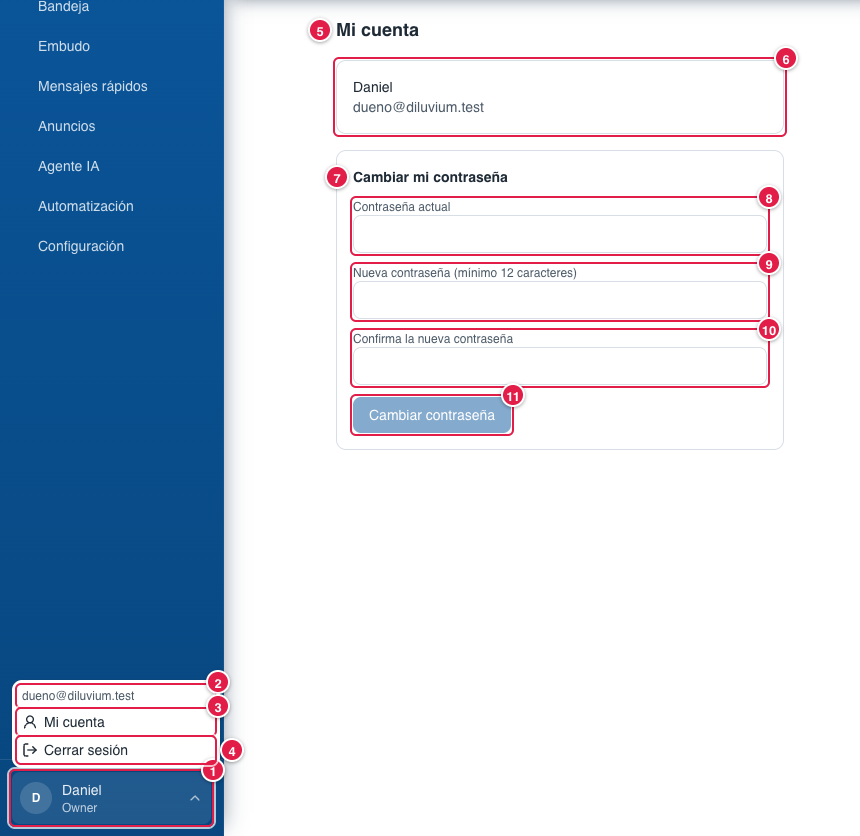
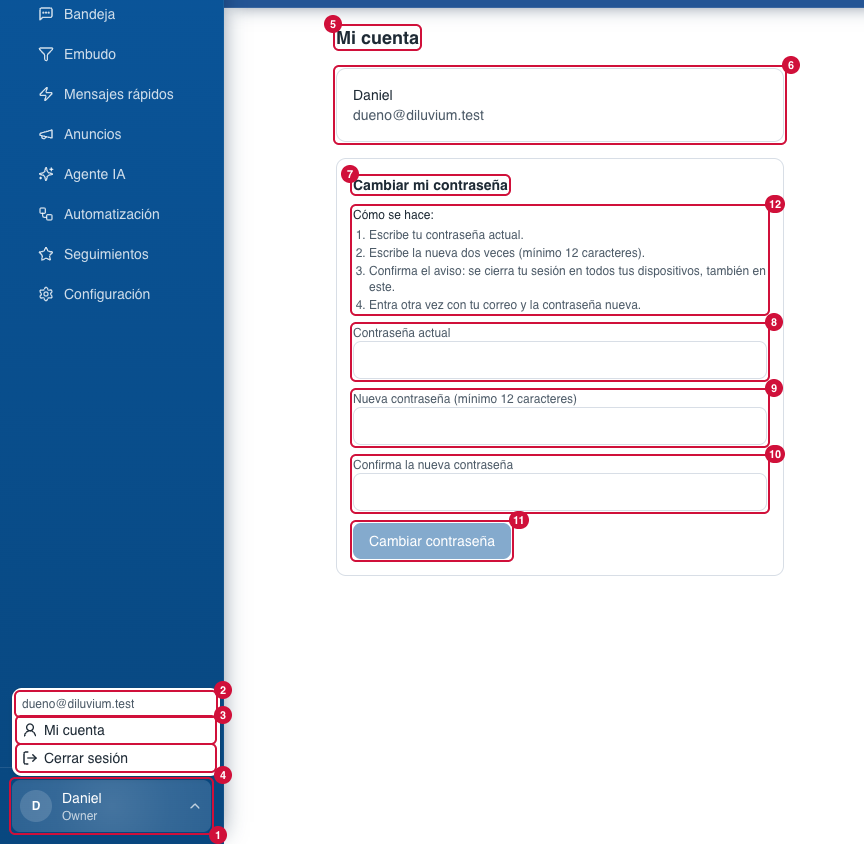
feat(mi-cuenta): aviso y guía al cambiar la contraseña; se cierran todas las sesiones
- Mi cuenta › Cambiar mi contraseña: guía de 4 pasos y, antes de cambiarla, el aviso
  «¿Cambiar tu contraseña?» (no se deshace; se cierra la sesión aquí y en todos los
  dispositivos). Si la actual está mal, no cambia nada y sigue dentro.
- Al cambiarla se cierran TODAS las sesiones del usuario (también la de esa pestaña) y va a
  Iniciar sesión con el aviso «Tu contraseña cambió… Entra con tu correo y la contraseña
  nueva.» Antes, revokeOtherSessions abría una sesión nueva que la página no alcanzaba a usar
  y lo sacaba sin decir por qué.
- Mapa: 3.9 con 12 (guía), 13 (aviso) y 14 (aviso de Iniciar sesión); captura 12-mi-cuenta
  rehecha y 12-mi-cuenta-aviso / 12-mi-cuenta-entrar nuevas.
- Sin migración.

diff --git a/app/(app)/mi-cuenta/_components/my-account-form.tsx b/app/(app)/mi-cuenta/_components/my-account-form.tsx
@@ -1,8 +1,12 @@
 "use client";
 
-// "Mi cuenta": cualquier usuario cambia SU contraseña (pide la actual). Al
-// cambiarla se cierran sus otras sesiones.
+// "Mi cuenta": cualquier usuario cambia SU contraseña (pide la actual). Guía de 4 pasos y,
+// antes de cambiarla, un aviso: no se deshace y se cierra su sesión en TODOS sus dispositivos,
+// también en este (decisión del dueño, 27-oct-2026). Si sale bien, la acción lleva a «Iniciar
+// sesión» con el aviso de entrar con la nueva; aquí solo regresa si falló.
 import { useState } from "react";
+import { unstable_rethrow } from "next/navigation";
+import { TopConfirm } from "@/components/ui/top-confirm";
 import { changeMyPassword } from "@/lib/actions/team";
 
 const inputClass =
@@ -12,31 +16,31 @@ export function MyAccountForm({ name, email }: { name: string; email: string }) 
   const [current, setCurrent] = useState("");
   const [next, setNext] = useState("");
   const [confirm, setConfirm] = useState("");
-  const [message, setMessage] = useState<{ ok: boolean; text: string } | null>(null);
+  const [error, setError] = useState<string | null>(null);
+  const [asking, setAsking] = useState(false);
   const [saving, setSaving] = useState(false);
 
   const mismatch = confirm.length > 0 && next !== confirm;
 
-  async function submit(event: React.FormEvent) {
+  function submit(event: React.FormEvent) {
     event.preventDefault();
-    if (mismatch) return;
+    if (next !== confirm) return;
+    setError(null);
+    setAsking(true);
+  }
+
+  async function changePassword() {
     setSaving(true);
-    setMessage(null);
     try {
       const result = await changeMyPassword({ currentPassword: current, newPassword: next });
-      if (result.ok) {
-        setCurrent("");
-        setNext("");
-        setConfirm("");
-        setMessage({ ok: true, text: "Contraseña actualizada. Se cerraron tus sesiones en otros dispositivos." });
-      } else {
-        setMessage({ ok: false, text: result.message });
-      }
-    } catch {
-      setMessage({ ok: false, text: "No se pudo cambiar la contraseña." });
-    } finally {
-      setSaving(false);
+      if (!result.ok) setError(result.message);
+    } catch (caught) {
+      // La redirección a «Iniciar sesión» llega como error de Next: se deja pasar.
+      unstable_rethrow(caught);
+      setError("No se pudo cambiar la contraseña.");
     }
+    setSaving(false);
+    setAsking(false);
   }
 
   return (
@@ -47,6 +51,15 @@ export function MyAccountForm({ name, email }: { name: string; email: string }) 
       </div>
       <form onSubmit={submit} className="space-y-3 rounded-lg border bg-card p-4">
         <h2 className="text-sm font-semibold">Cambiar mi contraseña</h2>
+        <div className="space-y-1 text-xs text-muted-foreground">
+          <p className="font-medium text-foreground">Cómo se hace:</p>
+          <ol className="list-decimal space-y-0.5 pl-4">
+            <li>Escribe tu contraseña actual.</li>
+            <li>Escribe la nueva dos veces (mínimo 12 caracteres).</li>
+            <li>Confirma el aviso: se cierra tu sesión en todos tus dispositivos, también en este.</li>
+            <li>Entra otra vez con tu correo y la contraseña nueva.</li>
+          </ol>
+        </div>
         <label className="block space-y-1 text-xs">
           <span className="text-muted-foreground">Contraseña actual</span>
           <input type="password" autoComplete="current-password" required value={current} onChange={(e) => setCurrent(e.target.value)} className={inputClass} />
@@ -60,15 +73,28 @@ export function MyAccountForm({ name, email }: { name: string; email: string }) 
           <input type="password" autoComplete="new-password" required value={confirm} onChange={(e) => setConfirm(e.target.value)} className={inputClass} />
         </label>
         {mismatch && <p className="text-xs text-brand-orange">Las contraseñas no coinciden.</p>}
-        {message && <p className={`text-xs ${message.ok ? "text-emerald-700 dark:text-emerald-300" : "text-brand-orange"}`}>{message.text}</p>}
+        {error && <p className="text-xs text-brand-orange">{error}</p>}
         <button
           type="submit"
-          disabled={saving || mismatch || !current || next.length < 12}
+          disabled={asking || mismatch || !current || next.length < 12}
           className="rounded-md bg-brand-navy px-4 py-2 text-sm font-medium text-brand-white hover:bg-brand-navy-dark disabled:opacity-50"
         >
-          {saving ? "Guardando…" : "Cambiar contraseña"}
+          Cambiar contraseña
         </button>
       </form>
+      {asking && (
+        <TopConfirm
+          title="¿Cambiar tu contraseña?"
+          confirmLabel="Cambiar y salir"
+          pendingLabel="Cambiando…"
+          pending={saving}
+          onConfirm={() => void changePassword()}
+          onCancel={() => setAsking(false)}
+        >
+          No se puede deshacer: la contraseña anterior deja de servir. Se cerrará tu sesión aquí y en todos tus dispositivos
+          (computadora y celular). Después entra de nuevo con tu correo y la contraseña nueva.
+        </TopConfirm>
+      )}
     </div>
   );
 }

diff --git a/lib/actions/team.ts b/lib/actions/team.ts
@@ -8,14 +8,17 @@
 // Las contraseñas nunca se devuelven ni se muestran: solo se asignan.
 import { headers } from "next/headers";
 import { revalidatePath } from "next/cache";
+import { redirect } from "next/navigation";
 import { APIError } from "better-auth/api";
 import { z } from "zod";
 import { auth } from "@/lib/auth";
 import { requireActiveMembership } from "@/lib/auth/active-organization";
 import { roleAllows } from "@/lib/auth/permissions";
+import { signInNoticeHref } from "@/lib/auth/sign-in-notice";
 import { ipRateLimiter } from "@/lib/rate-limit";
 import { assignableRoles, isTeamRole, teamActionError, type TeamAction } from "@/lib/team/rules";
 import {
+  closeAllSessions,
   countActiveOwners,
   createSeller,
   listTeam,
@@ -73,20 +76,27 @@ const changePasswordSchema = z.object({
   newPassword: z.string().min(12, "La nueva contraseña debe tener al menos 12 caracteres.").max(128),
 });
 
+// Al cambiarla se cierran TODAS sus sesiones, también la de esta pestaña, y va a «Iniciar
+// sesión» con el aviso de entrar con la nueva (decisión del dueño, 27-oct-2026). Antes,
+// revokeOtherSessions abría una sesión nueva con cookie nueva, pero la página se volvía a
+// dibujar con la cookie vieja (ya borrada) y lo sacaba a «Iniciar sesión» sin decir por qué.
+// Si sale bien no regresa: redirige (por eso va fuera de run, que atrapa errores).
 export async function changeMyPassword(input: z.infer<typeof changePasswordSchema>): Promise<TeamResult> {
-  await requireActiveMembership();
+  const { userId } = await requireActiveMembership();
   const requestHeaders = await headers();
   const limited = await ipRateLimiter.check(new Request("http://crm.local/mi-cuenta", { headers: requestHeaders }), [PASSWORD_RULE]);
   if (limited) return { ok: false, message: "Demasiados intentos. Espera unos minutos." };
-  return run(async () => {
+  const result = await run(async () => {
     const parsed = changePasswordSchema.parse(input);
-    // Better Auth verifica la actual y, con revokeOtherSessions, cierra las
-    // demás sesiones del usuario (dist/api/routes/update-user.mjs:75).
+    // Better Auth verifica la actual (dist/api/routes/update-user.mjs).
     await auth.api.changePassword({
       headers: requestHeaders,
-      body: { currentPassword: parsed.currentPassword, newPassword: parsed.newPassword, revokeOtherSessions: true },
+      body: { currentPassword: parsed.currentPassword, newPassword: parsed.newPassword },
     });
+    await closeAllSessions(userId);
   });
+  if (result.ok) redirect(signInNoticeHref("contrasena"));
+  return result;
 }
 
 // ─── Vendedores ───────────────────────────────────────────────────────────

diff --git a/lib/team/store.int.test.ts b/lib/team/store.int.test.ts
@@ -100,6 +100,19 @@ describe.skipIf(!TEST_DATABASE_URL)("vendedores (Postgres real + Better Auth)", 
     await expect(team.setPassword(carlos.userId, "corta")).rejects.toThrow(/al menos 12/);
   });
 
+  it("cerrar todas sus sesiones («Mi cuenta» › cambiar contraseña): todas las suyas y ninguna ajena", async () => {
+    await team.createSeller({ organizationId: ORG, name: "Carlos", email: "carlos@diluvium.mx", password: "vendedor-pass-12", role: "agent" });
+    const carlos = (await team.listTeam(ORG)).find((m) => m.email === "carlos@diluvium.mx")!;
+    await signIn("carlos@diluvium.mx", "vendedor-pass-12");
+    await signIn("carlos@diluvium.mx", "vendedor-pass-12");
+    await signIn("owner@diluvium.mx", OWNER_PASSWORD);
+    const sessionsOf = async (userId: string) => (await db.select().from(s.session).where(eq(s.session.userId, userId))).length;
+    expect(await sessionsOf(carlos.userId)).toBe(2);
+    await team.closeAllSessions(carlos.userId);
+    expect(await sessionsOf(carlos.userId)).toBe(0);
+    expect(await sessionsOf(ownerId)).toBe(1);
+  });
+
   it("un alta que se cortó a la mitad (usuario sin organización) se completa en vez de bloquear el correo", async () => {
     await auth.api.createUser({ body: { email: "huerfano@diluvium.mx", password: "cualquier-pass-1", name: "Viejo" } });
     await team.createSeller({ organizationId: ORG, name: "Daniel", email: "huerfano@diluvium.mx", password: "vendedor-pass-12", role: "agent" });

diff --git a/lib/auth/sign-in-notice.ts b/lib/auth/sign-in-notice.ts
@@ -1,0 +1,16 @@
+// Avisos de «Iniciar sesión» que llegan por `?aviso=`: después de cambiar la contraseña en
+// «Mi cuenta» se cierran todas las sesiones y la pantalla de entrada explica por qué
+// (decisión del dueño, 27-oct-2026). Solo una palabra fija en la URL, nunca datos del usuario.
+export const SIGN_IN_NOTICES = {
+  contrasena: "Tu contraseña cambió y se cerraron tus sesiones. Entra con tu correo y la contraseña nueva.",
+} as const;
+
+export type SignInNotice = keyof typeof SIGN_IN_NOTICES;
+
+export function signInNoticeHref(notice: SignInNotice): string {
+  return `/sign-in?aviso=${notice}`;
+}
+
+export function signInNoticeText(value: string | null): string | null {
+  return value !== null && Object.hasOwn(SIGN_IN_NOTICES, value) ? SIGN_IN_NOTICES[value as SignInNotice] : null;
+}

diff --git a/app/(auth)/sign-in/page.tsx b/app/(auth)/sign-in/page.tsx
@@ -1,10 +1,11 @@
 "use client";
 
-import { useState } from "react";
+import { Suspense, useState } from "react";
 import Image from "next/image";
 import { useRouter } from "next/navigation";
 import { Eye, EyeOff } from "lucide-react";
 import { signIn } from "@/lib/auth/client";
+import { SignInNotice } from "./_components/sign-in-notice";
 
 export default function SignInPage() {
   const router = useRouter();
@@ -56,6 +57,11 @@ export default function SignInPage() {
             </p>
           </div>
         </div>
+
+        {/* useSearchParams pide Suspense para que la página se pueda prerenderizar */}
+        <Suspense fallback={null}>
+          <SignInNotice />
+        </Suspense>
 
         <form onSubmit={handleSubmit} className="space-y-4">
           <div className="space-y-1.5">

diff --git a/app/(auth)/sign-in/_components/sign-in-notice.tsx b/app/(auth)/sign-in/_components/sign-in-notice.tsx
@@ -1,0 +1,17 @@
+"use client";
+
+// Aviso arriba del formulario de entrada cuando se llega con `?aviso=` (p. ej. después de
+// cambiar la contraseña en «Mi cuenta»). Sin aviso conocido no pinta nada.
+import { useSearchParams } from "next/navigation";
+import { signInNoticeText } from "@/lib/auth/sign-in-notice";
+
+export function SignInNotice() {
+  const text = signInNoticeText(useSearchParams().get("aviso"));
+  if (!text) return null;
+  return (
+    <p role="status" className="mb-4 rounded-md bg-brand-navy/10 px-3 py-2 text-sm text-brand-navy dark:text-sky-300">
+      <span className="mr-1.5 font-semibold">✓</span>
+      {text}
+    </p>
+  );
+}

diff --git a/lib/auth/sign-in-notice.test.ts b/lib/auth/sign-in-notice.test.ts
@@ -1,0 +1,15 @@
+import { describe, expect, it } from "vitest";
+import { signInNoticeHref, signInNoticeText } from "./sign-in-notice";
+
+describe("avisos de «Iniciar sesión»", () => {
+  it("después de cambiar la contraseña pide entrar con la nueva", () => {
+    expect(signInNoticeHref("contrasena")).toBe("/sign-in?aviso=contrasena");
+    expect(signInNoticeText("contrasena")).toMatch(/contraseña nueva/);
+  });
+
+  it("sin aviso o con uno desconocido no muestra nada", () => {
+    expect(signInNoticeText(null)).toBeNull();
+    expect(signInNoticeText("otro")).toBeNull();
+    expect(signInNoticeText("toString")).toBeNull();
+  });
+});

diff --git a/lib/team/store.ts b/lib/team/store.ts
@@ -214,6 +214,11 @@ export async function setPassword(userId: string, password: string, log?: TeamLo
   });
 }
 
+/** Cierra TODAS las sesiones del usuario, también la de quien lo pide («Mi cuenta» › cambiar contraseña). */
+export async function closeAllSessions(userId: string): Promise<void> {
+  await db.delete(session).where(eq(session.userId, userId));
+}
+
 /** Desactiva (no borra: sus mensajes conservan el autor) y revoca sus sesiones; o lo reactiva. */
 export async function setDeactivated(userId: string, deactivated: boolean, log?: TeamLog): Promise<void> {
   try {

diff --git a/docs/mapa-crm/3.9-menu-del-usuario.md b/docs/mapa-crm/3.9-menu-del-usuario.md
@@ -5,6 +5,8 @@
 Abajo del menú lateral, para todos.
 
 ![Menú del usuario y Mi cuenta](12-mi-cuenta.png)
+![Aviso «¿Cambiar tu contraseña?» (13)](12-mi-cuenta-aviso.png)
+![Aviso en Iniciar sesión después del cambio (14)](12-mi-cuenta-entrar.png)
 
 | # | Nombre oficial | Qué hace | Quién lo ve |
 |---|---|---|---|
@@ -18,7 +20,10 @@ Abajo del menú lateral, para todos.
 | 8 | **Contraseña actual** | La que usas hoy. | Todos |
 | 9 | **Nueva contraseña (mínimo 12 caracteres)** | La nueva. | Todos |
 | 10 | **Confirma la nueva contraseña** | Repetirla. | Todos |
-| 11 | **Cambiar contraseña** | Guarda la nueva contraseña. | Todos |
+| 11 | **Cambiar contraseña** | No la cambia todavía: abre el aviso de arriba (13). | Todos |
+| 12 | **Cómo se hace** | Guía de 4 pasos (27-oct-2026): escribir la actual; la nueva dos veces; confirmar el aviso (se cierra tu sesión en todos tus dispositivos, también en este); entrar otra vez con tu correo y la contraseña nueva. | Todos |
+| 13 | **Aviso «¿Cambiar tu contraseña?»** | Sale arriba, centrado (27-oct-2026): «No se puede deshacer: la contraseña anterior deja de servir. Se cerrará tu sesión aquí y en todos tus dispositivos (computadora y celular). Después entra de nuevo con tu correo y la contraseña nueva.» **Cambiar y salir** (naranja) la cambia, cierra **todas** tus sesiones y te lleva a Iniciar sesión (14); **Cancelar**, Esc o un clic afuera lo cierran. Si la actual está mal, no cambia nada, sigues dentro y abajo del formulario dice «La contraseña actual no es correcta.» | Todos |
+| 14 | **Aviso de Iniciar sesión** | Después del cambio, arriba del formulario de entrada: «Tu contraseña cambió y se cerraron tus sesiones. Entra con tu correo y la contraseña nueva.» En tus otros dispositivos (celular, otra computadora) también te pide entrar otra vez. | Todos |
 
 **Lo cambias tú desde la pantalla:** tu contraseña.
 
@@ -28,4 +33,4 @@ Abajo del menú lateral, para todos.
 
 **Agente IA aquí:** nada.
 
-<sub>Para Code: ruta `/mi-cuenta`; `app/(app)/_components/user-menu.tsx`, `app/(app)/mi-cuenta/_components/my-account-form.tsx`.</sub>
+<sub>Para Code: ruta `/mi-cuenta`; `app/(app)/_components/user-menu.tsx`, `app/(app)/mi-cuenta/_components/my-account-form.tsx`, `changeMyPassword` en `lib/actions/team.ts` (cierra todas las sesiones y redirige a `/sign-in?aviso=contrasena`); el aviso de entrada en `app/(auth)/sign-in/_components/sign-in-notice.tsx` y `lib/auth/sign-in-notice.ts`.</sub>
